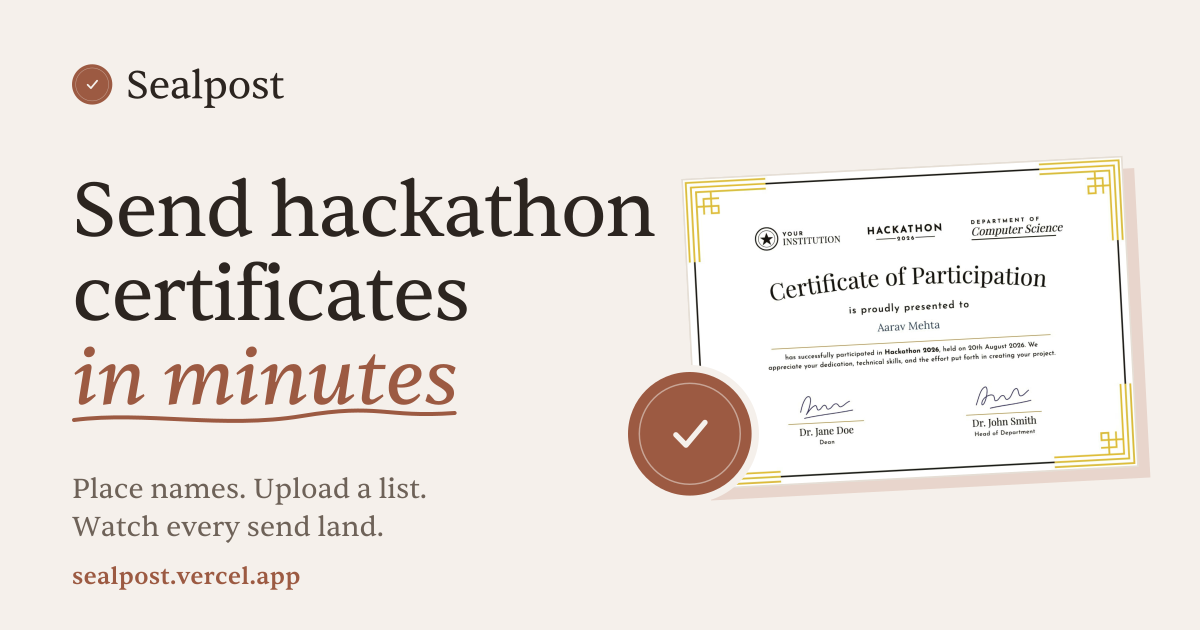
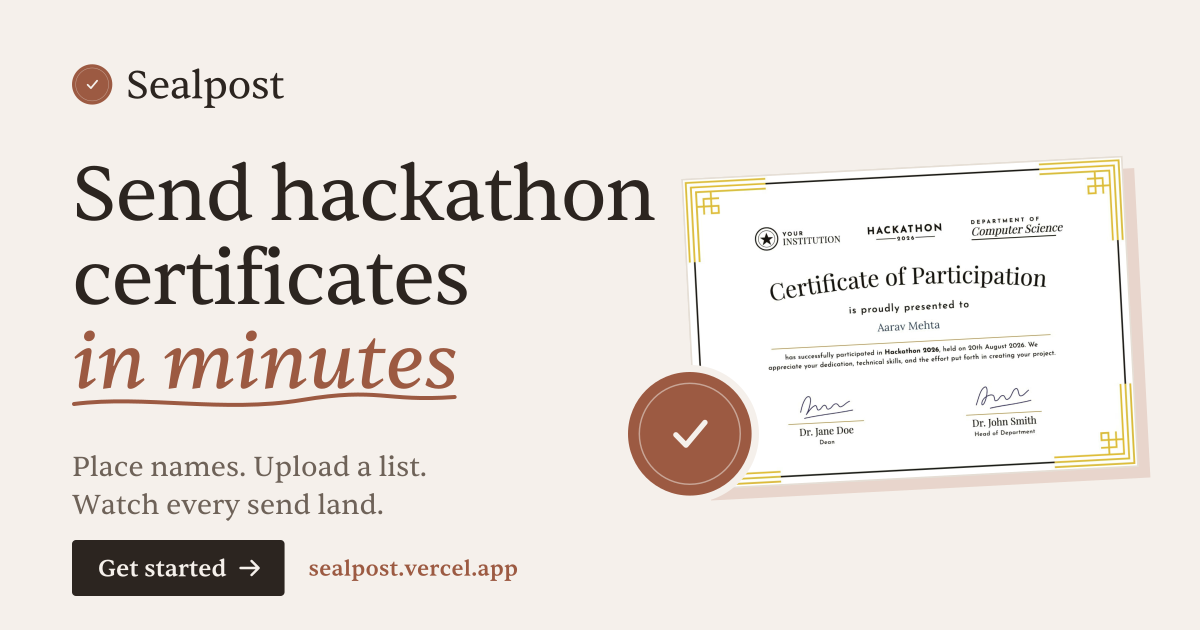
feat: add a call to action to the social image (#11)
The social image ended on a plain address. It now has a dark "Get started"
button, like the hero's, with the address beside it. The headline and
supporting lines move up to make room. Only the image changes; the
wordmarks and lockups rebuild identically.

Changed region(s): [[0.0617, 0.2413, 0.555, 0.6937], [0.0617, 0.7238, 0.4317, 0.9651]]

diff --git a/landing/scripts/build-lockups.py b/landing/scripts/build-lockups.py
@@ -124,7 +124,7 @@ def build_og(roman: Face, medium: Face, italic: Face, out_png: Path) -> None:
     # Headline.
     size = 78
     lines = [("Send hackathon", roman, INK), ("certificates", roman, INK)]
-    y = 236
+    y = 220
     for text, face, fill in lines:
         d, _, adv = face.set(text, size, LEFT, y, tracking=-0.02)
         assert adv < 590, f"headline line too wide: {adv}"
@@ -139,11 +139,30 @@ def build_og(roman: Face, medium: Face, italic: Face, out_png: Path) -> None:
         f'stroke-width="4" stroke-linecap="round"/>'
     )
 
-    # Supporting line and address.
+    # Supporting line.
     for i, text in enumerate(["Place names. Upload a list.", "Watch every send land."]):
-        d, _, _ = roman.set(text, 28, LEFT, 498 + i * 38)
+        d, _, _ = roman.set(text, 28, LEFT, 476 + i * 38)
         parts.append(f'<path d="{d}" fill="{MUTED}"/>')
-    d, _, _ = medium.set("sealpost.vercel.app", 24, LEFT, 584, tracking=0.01)
+
+    # Call to action: the site's dark "Get started" button, the address beside it.
+    bx, by, bh, pad_x, label_size = LEFT, 540, 56, 26, 24
+    base = by + bh / 2 + medium.cap_height(label_size) / 2
+    d, _, label_w = medium.set("Get started", label_size, bx + pad_x, base)
+    ax = bx + pad_x + label_w + 14  # arrow, drawn as strokes
+    ay = by + bh / 2
+    bw = ax + 18 + pad_x - bx
+    parts.append(f'<rect x="{bx}" y="{by}" width="{num(bw)}" height="{bh}" rx="4" fill="{INK}"/>')
+    parts.append(f'<path d="{d}" fill="{CANVAS}"/>')
+    parts.append(
+        f'<path d="M{num(ax)} {num(ay)} H{num(ax + 18)} M{num(ax + 11)} {num(ay - 7)} '
+        f'L{num(ax + 18)} {num(ay)} L{num(ax + 11)} {num(ay + 7)}" fill="none" stroke="{CANVAS}" '
+        f'stroke-width="2.5" stroke-linecap="round" stroke-linejoin="round"/>'
+    )
+    url_size = 22
+    d, _, url_w = medium.set(
+        "sealpost.vercel.app", url_size, bx + bw + 24, by + bh / 2 + medium.cap_height(url_size) / 2, tracking=0.01
+    )
+    assert bx + bw + 24 + url_w < 610, "call to action runs into the certificate"
     parts.append(f'<path d="{d}" fill="{TERRA}"/>')
 
     # Certificate card, tilted, with the flat terracotta offset the site uses.
